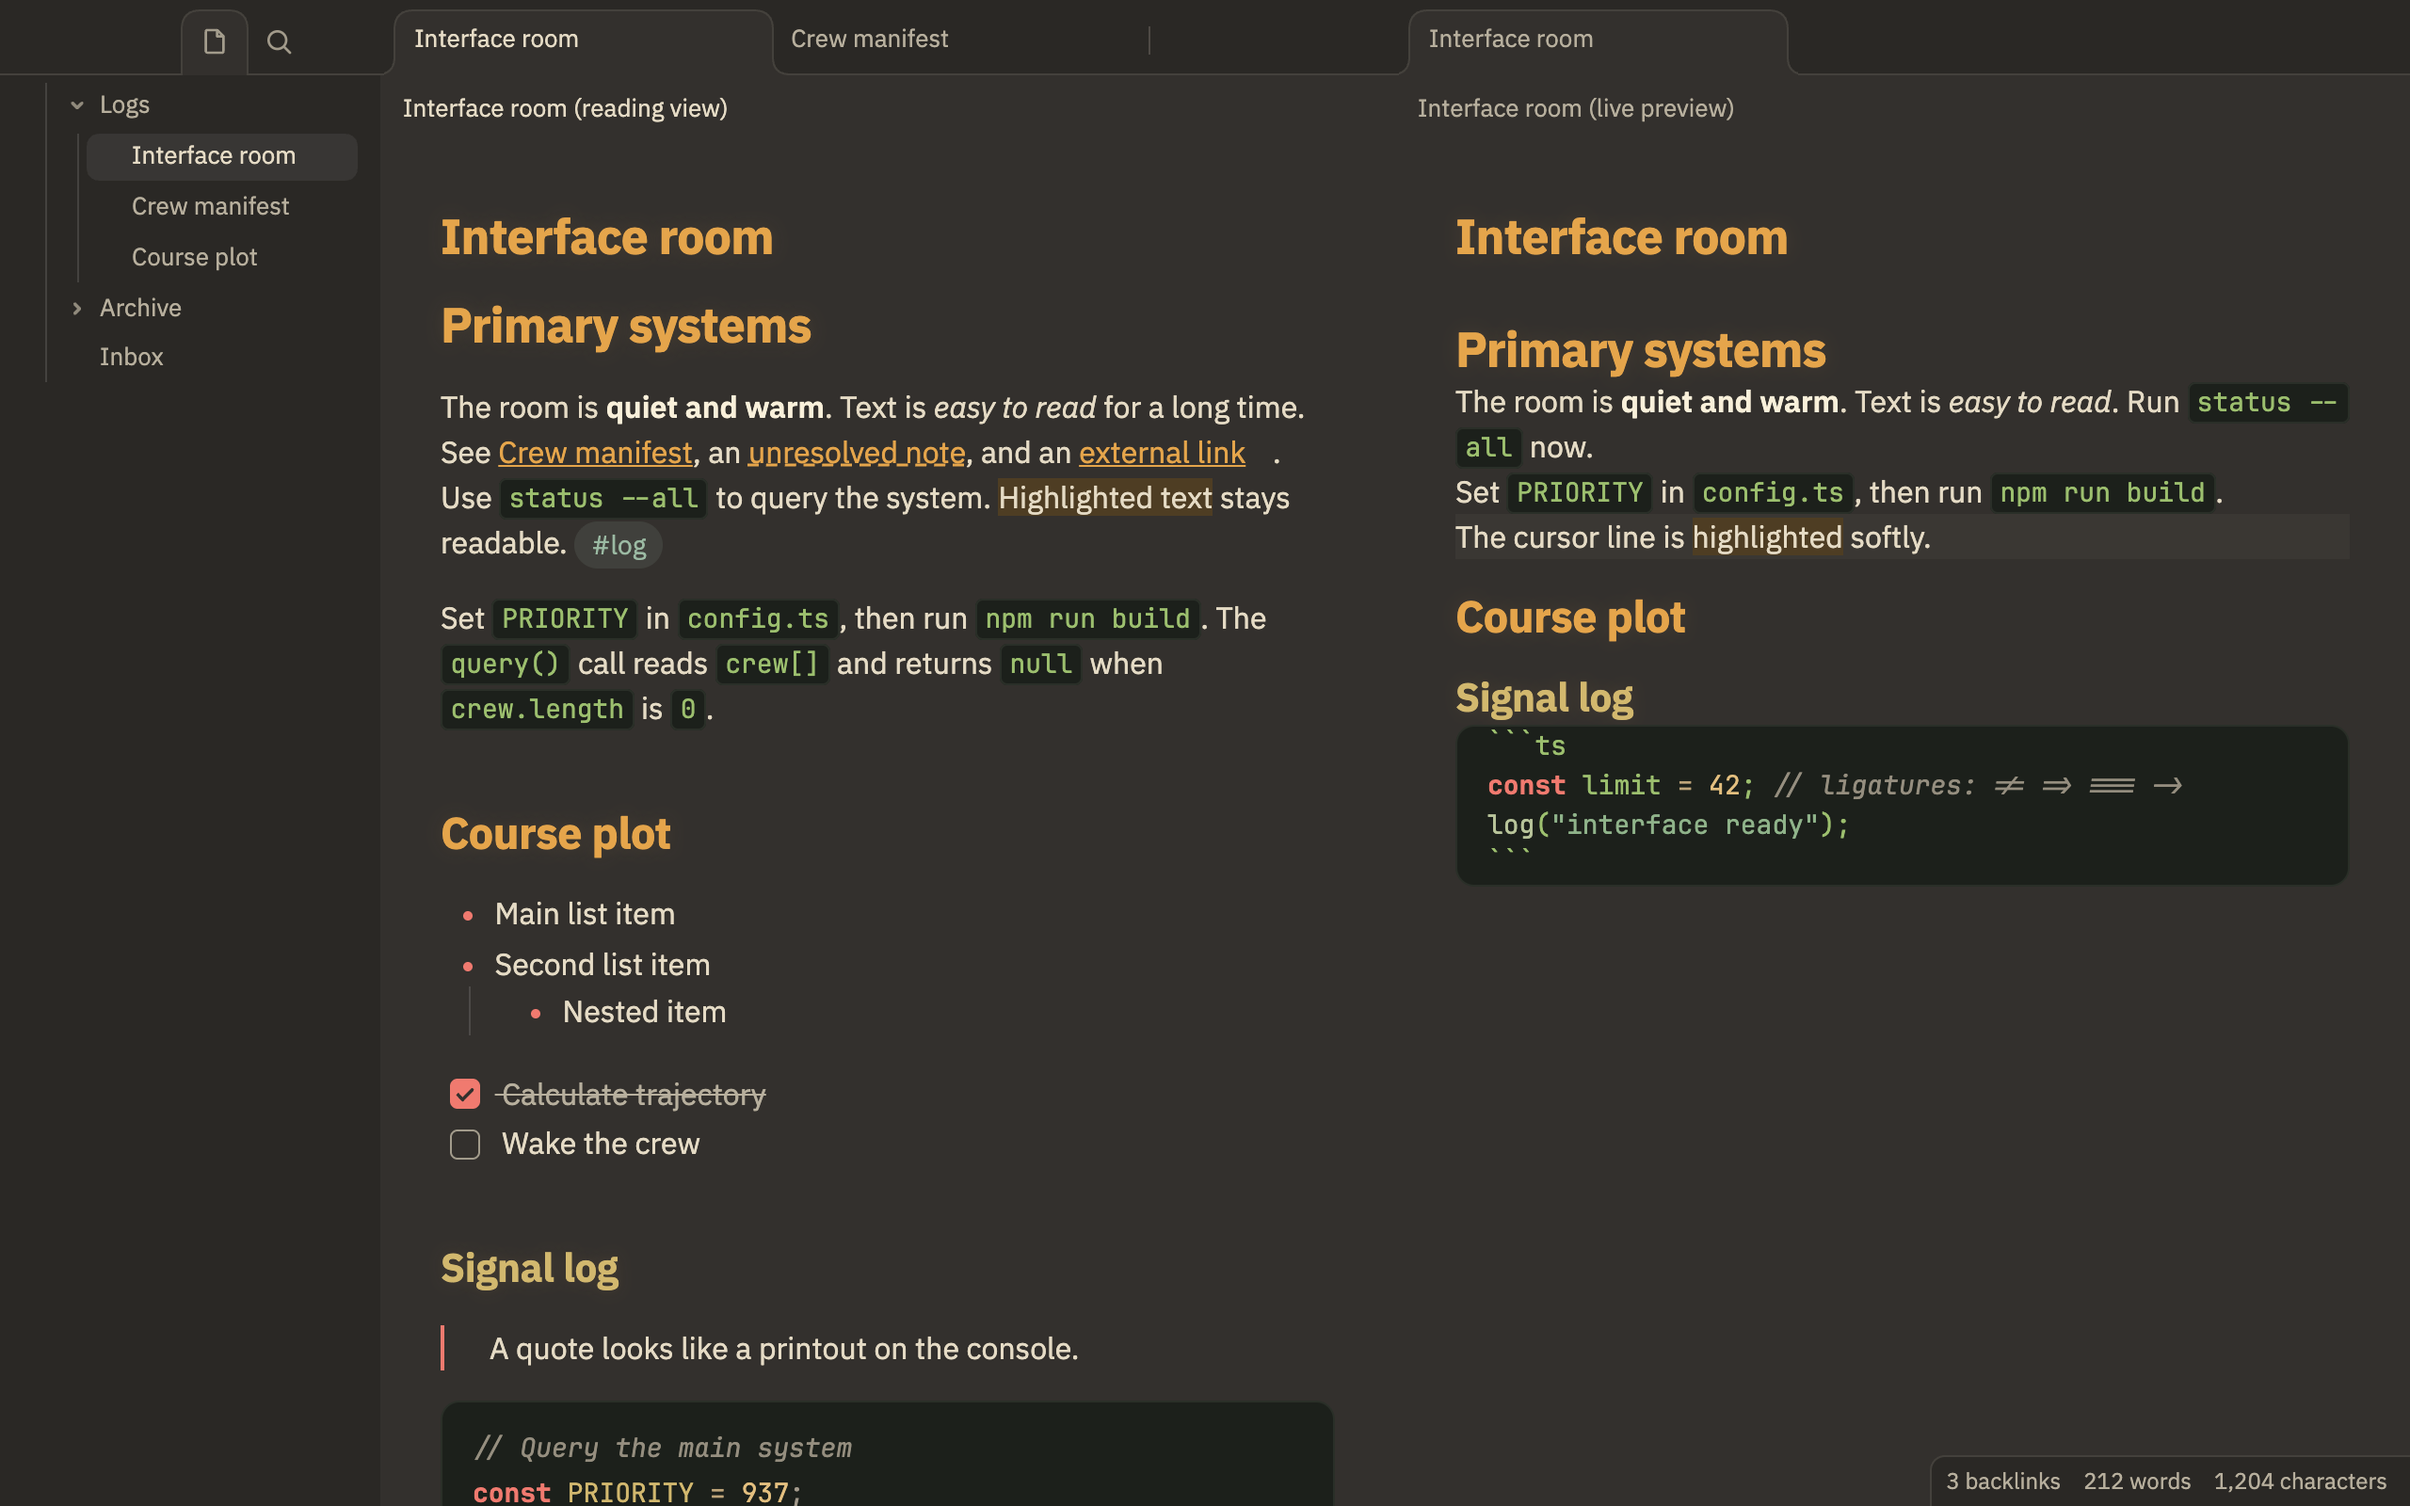
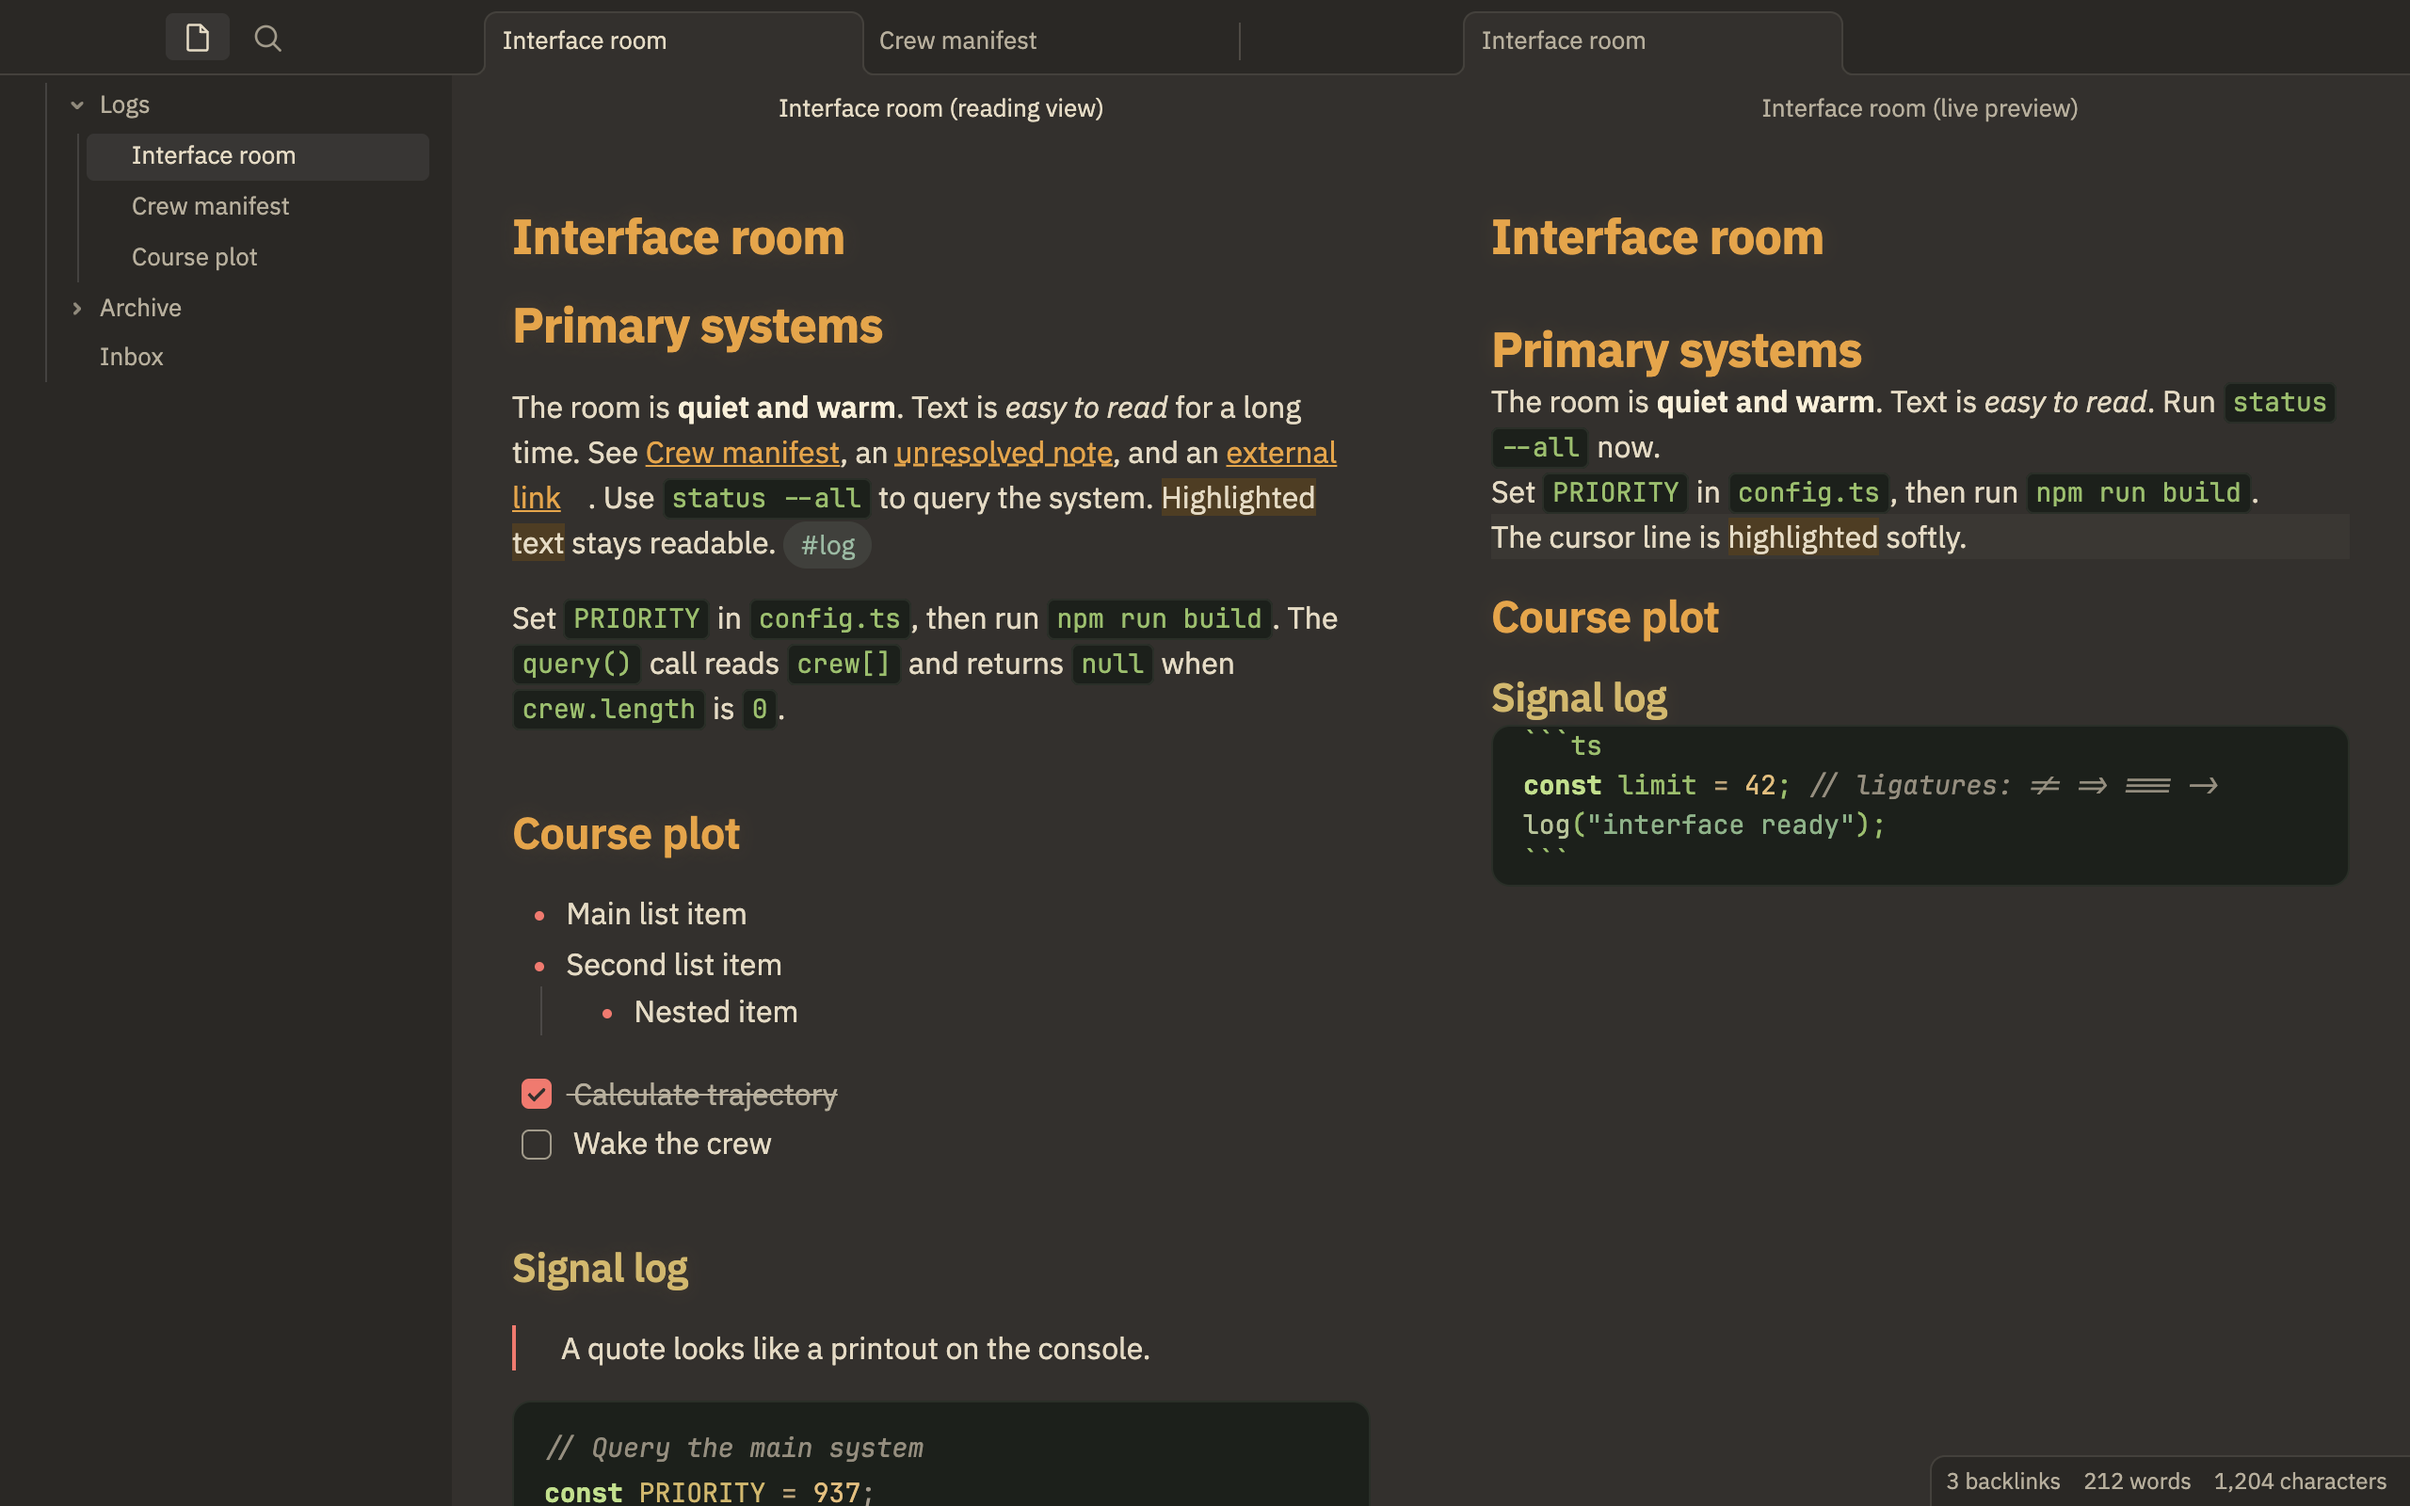
feat: use phosphor code keywords on the code screen
- Code keywords change from red (#f07a6f) to a lighter phosphor green
  (#c3e08e).
  Red on green phosphor did not fit the warm, analog terminal look.
- Red keywords merged with plain code text for deuteranopia (OKLab
  distance 4.2). Phosphor keywords stand apart by lightness in all
  simulated vision types (10.4 or more).
- Function names use the phosphor text color. The removed codeFunction
  swatch was too close to the new keyword color.
- Deleted diff lines change from red (#e8857a) to orange (#c98a63).
- Only the --code-* roles change. Writing-space colors and the Ghostty
  palette do not change.
- The README screenshots show the new code colors.

diff --git a/README.md b/README.md
@@ -78,6 +78,6 @@ The Obsidian theme embeds fonts that use the SIL Open Font License 1.1. See `LIC
 
 ## Credits
 
-- [Gruvbox](https://github.com/morhetz/gruvbox) by Pavel Pertsev and [Gruvbox Material](https://github.com/sainnhe/gruvbox-material) by sainnhe are the inspiration for the soft blacks, the ambers, and the red code keywords.
+- [Gruvbox](https://github.com/morhetz/gruvbox) by Pavel Pertsev and [Gruvbox Material](https://github.com/sainnhe/gruvbox-material) by sainnhe are the inspiration for the soft blacks and the ambers.
 - [JetBrains Mono](https://github.com/JetBrains/JetBrainsMono) by The JetBrains Mono Project Authors.
 - [IBM Plex Sans](https://github.com/IBM/plex) by IBM Corp.
